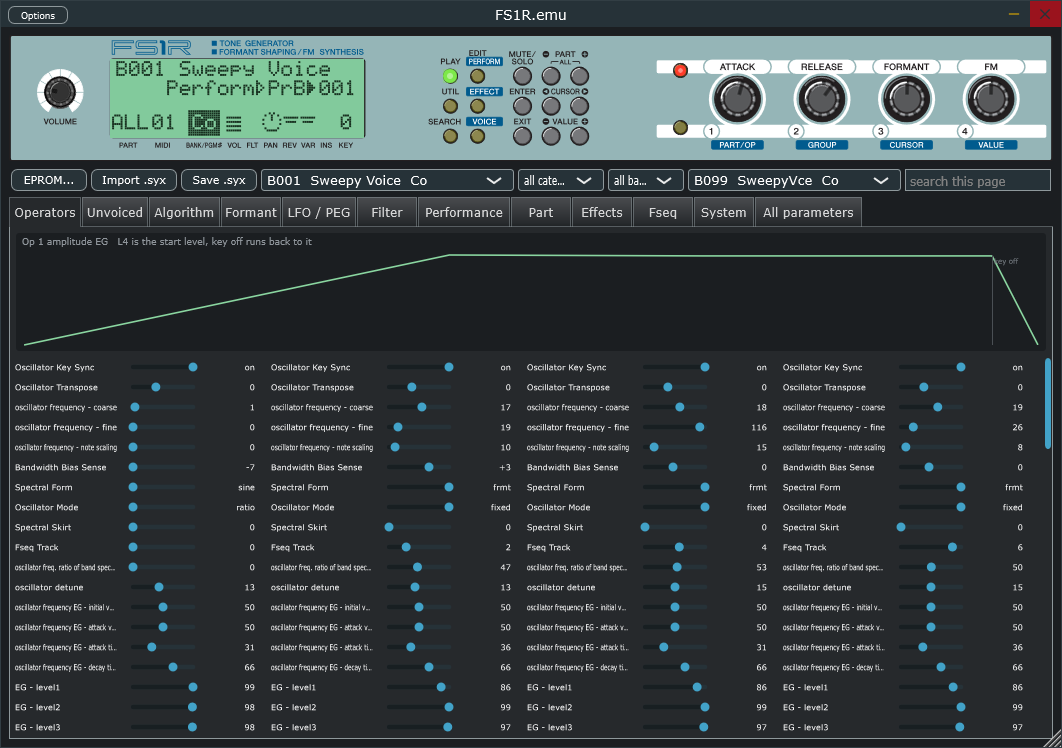
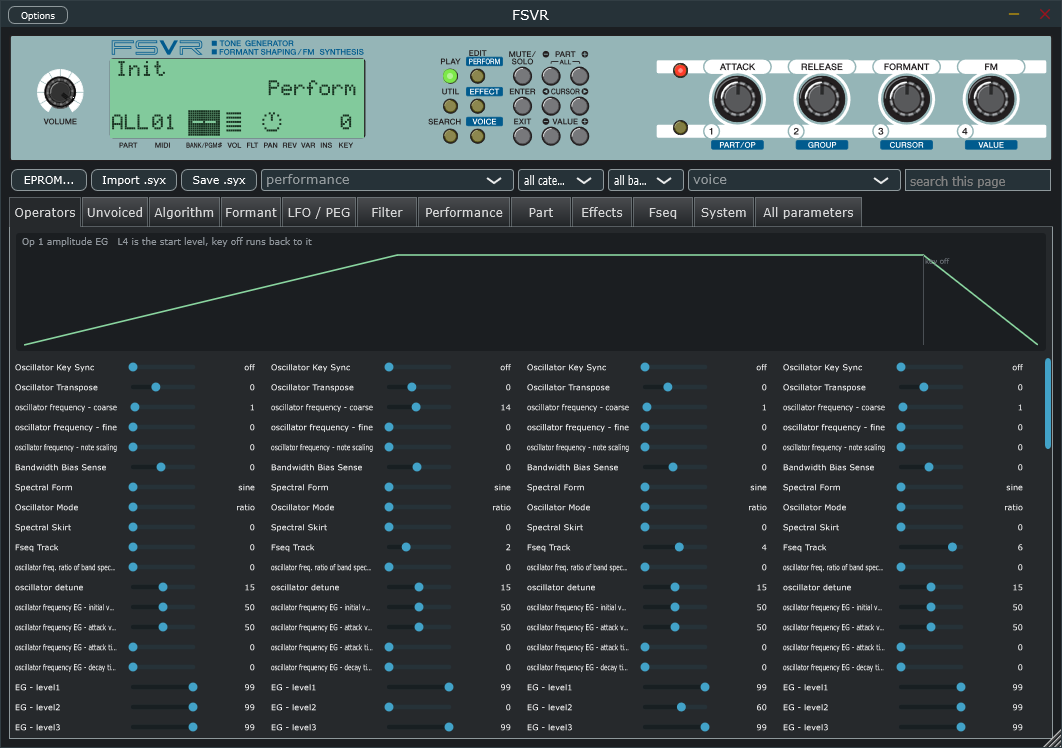
Rebrand: the panel wordmark and the plugin identity are FSVR
The front panel the plugin draws carries the project's own wordmark now.
It is the drawing's own letters with a V drawn to match the digit it
replaces, kept in docs/fsvr.svg and dropped into the panel by
tools/make_panel_svg.py, so the artwork stays generated from the page the
panel coordinates were read off and the mark lives in one file.

The plugin announces itself as FSVR: product name, plugin code, CLAP id
and a bundle id said outright rather than derived from the target name. A
host reads that as a different plugin, so sessions holding the old one
will not find it, and the standalone's settings move with the name.

Version 0.4.0, the first release under it. README screenshot retaken.

diff --git a/tools/make_panel_svg.py b/tools/make_panel_svg.py
@@ -9,6 +9,10 @@ them through lunasvg and ends up clipping the whole drawing away, so they are st
 than worked around in the plugin. Coordinates are untouched: plugin/PanelView.cpp addresses the
 drawing in its own user units and tools/check_panel.py checks them against this same file.
 
+The one thing that does not carry over is the logo: the panel the plugin shows is this project, so the
+FS1R wordmark is swapped for the FSVR one from docs/fsvr.svg, which is the same four letters with the
+manual's own F, S and R and a V drawn to match. That file is the wordmark; nothing is redrawn here.
+
 Writes plugin/fs1r_panel.svg, which is committed so the build needs no Python.
 """
 import re
@@ -17,7 +21,11 @@ from pathlib import Path
 
 ROOT = Path(__file__).resolve().parent.parent
 SRC = ROOT / "docs" / "FS1R-front-panel-p14-ny.svg"
+LOGO = ROOT / "docs" / "fsvr.svg"
 DST = ROOT / "plugin" / "fs1r_panel.svg"
+# The 1 and the R in the drawing. The V takes the 1's path and the R moves right by what the wider
+# letter costs, which docs/fsvr.svg carries as the R's own translate. F and S are already right.
+ONE, ARR = "path9570", "path9568"
 
 
 def strip_clips(svg: str) -> str:
@@ -34,12 +42,25 @@ def strip_clips(svg: str) -> str:
         svg = out
 
 
+def swap_logo(svg: str, logo: str) -> str:
+    v = re.search(r'<path id="V" d="([^"]*)"', logo)
+    r = re.search(r'<path id="R" transform="(translate\([^"]*\))"', logo)
+    if not v or not r:
+        sys.exit(f"make_panel_svg: no V path or R translate in {LOGO.name}")
+    svg, n = re.subn(r'(<path\s+d=")[^"]*("[^>]*id="%s")' % ONE, lambda m: m.group(1) + v.group(1) + m.group(2), svg)
+    svg, m = re.subn(r'(<path\s+d="[^"]*"[^>]*id="%s")' % ARR,
+                     lambda g: g.group(1) + f'\n     transform="{r.group(1)}"', svg)
+    if n != 1 or m != 1:
+        sys.exit(f"make_panel_svg: logo paths {ONE}/{ARR} matched {n}/{m} times, expected 1 each")
+    return svg
+
+
 def main() -> int:
     if not SRC.exists():
         print(f"missing {SRC}", file=sys.stderr)
         return 1
     svg = SRC.read_text(encoding="utf-8")
-    out = strip_clips(svg)
+    out = swap_logo(strip_clips(svg), LOGO.read_text(encoding="utf-8"))
     before, after = svg.count("<clipPath"), out.count("<clipPath")
     DST.write_text(out, encoding="utf-8")
     print(f"{SRC.name}: {before} clip paths -> {after}, {len(svg)} -> {len(out)} bytes")

diff --git a/captures/fs1r_demo_clip.py b/captures/fs1r_demo_clip.py
@@ -46,7 +46,7 @@ EXE = ROOT / "bin" / ("fs1r_emu.exe" if sys.platform == "win32" else "fs1r_emu")
 RENDER = ROOT / "bin" / ("render_capture.exe" if sys.platform == "win32" else "render_capture")
 DEMO = HERE / "demo"
 RECORDING = HERE / "FS1R DEMO.flac"
-LABEL = {False: "FS1R.emu engine", True: "FS1R hardware (digital out)"}
+LABEL = {False: "FSVR engine", True: "FS1R hardware (digital out)"}
 # drawtext asks fontconfig for the font, and fontconfig is not set up on every machine that has an
 # ffmpeg. Where it comes back empty, hand drawtext a file instead. $FS1R_DEMO_FONT wins if it is set,
 # and matplotlib's own DejaVu is the last resort on a container with no system fonts at all.

diff --git a/plugin/PluginProcessor.h b/plugin/PluginProcessor.h
@@ -32,7 +32,7 @@ public:
 
     juce::AudioProcessorEditor* createEditor() override;
     bool hasEditor() const override { return true; }
-    const juce::String getName() const override { return "FS1R.emu"; }
+    const juce::String getName() const override { return "FSVR"; }
     bool acceptsMidi() const override { return true; }
     bool producesMidi() const override { return true; }
     bool isMidiEffect() const override { return false; }

diff --git a/docs/plugin_guide.md b/docs/plugin_guide.md
@@ -1,4 +1,4 @@
-# FS1R.emu plugin guide
+# FSVR plugin guide
 
 The plugin is a controller for the engine, not a second synthesiser. Everything you move becomes a
 sysex parameter change into `fs1r::Device`, the engine echoes it back, and the echo is what moves the
@@ -22,7 +22,7 @@ engine library, the console and the self checks, and needs no submodules.
 driver's own period, 10 ms on most machines, and that is the only entry in the buffer size list.
 **Windows Audio (Exclusive Mode)** and **DirectSound** let you choose the size: exclusive mode takes
 the device away from every other program while the standalone runs, DirectSound adds some latency of
-its own. The choice is remembered in `%APPDATA%\FS1R.emu\FS1R.settings`.
+its own. The choice is remembered in `%APPDATA%\FSVR\FSVR.settings`.
 
 ## Voices
 
@@ -73,10 +73,12 @@ Loading one only changes where they are read from.
 
 ## The panel
 
-The panel is page 14 of the owner's manual, with live controls placed over the drawing. Two departures
-from the hardware: the volume knob sits midway between the panel's left edge and the display rather
-than hard against the edge, and the BANK/PGM# strip shows the bank while the cursor is on it and the
-program number the rest of the time, because there is only room for three characters under that label.
+The panel is page 14 of the owner's manual, with live controls placed over the drawing. Three departures
+from the hardware: the logo reads FSVR, in the manual drawing's own letters with a V drawn to match the
+1 it replaces (`docs/fsvr.svg`, dropped in by `tools/make_panel_svg.py`); the volume knob sits midway
+between the panel's left edge and the display rather than hard against the edge; and the BANK/PGM# strip
+shows the bank while the cursor is on it and the program number the rest of the time, because there is
+only room for three characters under that label.
 
 The four controller knobs are the selected part's own ATTACK, RELEASE, FORMANT and FM parameters, so
 they follow the part: switching part or loading a performance moves them.

diff --git a/NOTICE.md b/NOTICE.md
@@ -1,6 +1,6 @@
 # Licence and provenance
 
-FS1R.emu is licensed under the **GNU General Public License version 3** (see `LICENSE`). GPL-3 matches
+FSVR is licensed under the **GNU General Public License version 3** (see `LICENSE`). GPL-3 matches
 what gearmulator uses and satisfies JUCE's GPL terms, which is what lets the plugin link JUCE without a
 commercial licence.
 
@@ -36,7 +36,8 @@ dump to use `-r`, `tools/extract_*.py` or the plugin's EPROM button.
 tables in `plugin/parameterDescriptions_fs1r.json` are derived from them.
 
 **The panel artwork** in `plugin/fs1r_panel.svg` is the front panel figure from page 14 of the FS1R
-owner's manual (Yamaha, 1998), converted to vectors. It is Yamaha's drawing, redistributed here for
+owner's manual (Yamaha, 1998), converted to vectors, with the FS1R logo on it replaced by this
+project's own FSVR wordmark (`docs/fsvr.svg`). It is Yamaha's drawing, redistributed here for
 the same reason as the parameter tables: the plugin is a controller for a specific piece of hardware
 and is not useful if it does not look like one. Not ours to license.
 

diff --git a/README.md b/README.md
@@ -18,7 +18,7 @@ https://github.com/user-attachments/assets/1261aa38-1618-4524-8296-f5b9f0c4131b
 
 [Download](https://raw.githubusercontent.com/musicastudio/FSVR/main/captures/fs1r_demo01_hardware.mp4) if the player does not load.
 
-**FS1R demo song "Vokodrone" on FSVR v0.3.5**
+**FS1R demo song "Vokodrone" on FSVR v0.4.0**
 
 https://github.com/user-attachments/assets/344fa64c-4c79-4513-9388-a0d28e15c197
 
@@ -32,7 +32,7 @@ https://github.com/user-attachments/assets/344fa64c-4c79-4513-9388-a0d28e15c197
 
 [Download](https://raw.githubusercontent.com/musicastudio/FSVR/main/captures/fs1r_demo02_hardware.mp4) if the player does not load.
 
-**FS1R demo song "Full Tines" on FSVR v0.3.5**
+**FS1R demo song "Full Tines" on FSVR v0.4.0**
 
 <!-- Same again for captures/fs1r_demo02_engine.mp4. -->
 
